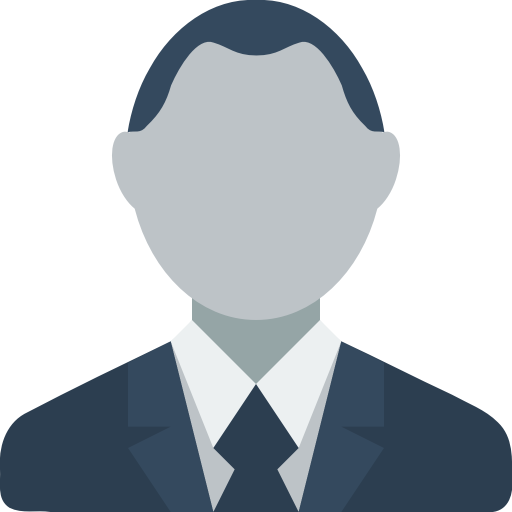
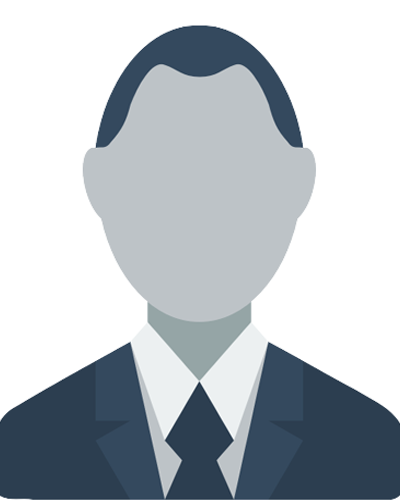
changed some pictures in the Images folder

diff --git a/9346B-G2/9346B-G2-3/Web_Pages/ourteam.html b/9346B-G2/9346B-G2-3/Web_Pages/ourteam.html
@@ -8,28 +8,28 @@
 </head>
 <meta name="viewport" content="width=device-width, initial-scale=1">
 <body>
-<img src="../Images/logo2.png" id="pic">
+<img src="../Images/logo2.png" id="pic" width="100%">
 <div class="header" >		
 	<nav id="navigate">
 		<ul>
 			<li><a href="../index.html">Our Advocacy</a></li>
 			<li><a href="#">About Us</a></li>
 				<ul>
-					<li><a href="mission.html" >Mission</li>
-					<li><a href="ourteam.html" target="_self">Our Team</li>
+					<li><a href="mission.html" >Mission</a></li>
+					<li><a href="ourteam.html" target="_self">Our Team</a></li>
 				</ul>
 			<li><a href="contactus.html">Contact Us</a></li>
 		</ul>
 	</nav>
 </div>
-
+<center>
 <div class="row">
   <div class="column">
     <div class="card">
-      <img src="../Images/joshua.jpg" alt="Joshua">
+      <img src="../Images/joshua.png" alt="Joshua" >
       <div class="container">
         <h2>Joshua Abubo</h2>
-        <p>Some text that describes me lorem ipsum ipsum lorem.</p>
+        <p>"Hurting an animal, makes you a criminal."</p>
         <p>2140748@slu.edu.ph</p>
         <p><button class="button">Contact</button></p>
       </div>
@@ -39,10 +39,11 @@
 <div class="row">
   <div class="column">
     <div class="card">
-      <img src="../Images/geo.jpg" alt="Geo">
+      <img src="../Images/geo.png" alt="Geo">
       <div class="container">
         <h2>Geovelle Andres</h2>
-        <p>Some text that describes me lorem ipsum ipsum lorem.</p>
+        <p>"Animals bark, growl & roar and they do not talk at all but seeing
+		through their eyes means something, a power to speak great language."</p>
         <p>2160890@slu.edu.ph</p>
         <p><button class="button">Contact</button></p>
       </div>
@@ -55,7 +56,7 @@
       <img src="../Images/francisco.png" alt="Francisco">
       <div class="container">
         <h2>Francisco III Cacas</h2>
-        <p>Some text that describes me lorem ipsum ipsum lorem.</p>
+        <p>"Pets are the best companion in life. They are always right by your side."</p>
         <p>thirdycas@gmail.com</p>
         <p><button class="button">Contact</button></p>
       </div>
@@ -65,11 +66,12 @@
 <div class="row">
   <div class="column">
     <div class="card">
-      <img src="../Images/mehanie.jpg" alt="Mehanie">
+      <img src="../Images/mehanie.png" alt="Mehanie">
       <div class="container">
         <h2>Mehanie Lonogan</h2>
-        <p>Some text that describes me lorem ipsum ipsum lorem.</p>
-        <p>@slu.edu.ph</p>
+        <p>"Animals should always be protected because they may be not intelligent as the human beings,
+		but they are much more compassionate, kind and lovable than we are.</p>
+        <p>2166004@slu.edu.ph</p>
         <p><button class="button">Contact</button></p>
       </div>
     </div>
@@ -78,11 +80,11 @@
 <div class="row">
   <div class="column">
     <div class="card">
-      <img src="../Images/noelle.jpg" alt="Noelle">
+      <img src="../Images/noelle.png" alt="Noelle">
       <div class="container">
         <h2>Noelle Mendoza</h2>
-        <p>Some text that describes me lorem ipsum ipsum lorem.</p>
-        <p>8@slu.edu.ph</p>
+        <p>"Dog Meat... You shouldn't eat."</p>
+        <p>2159317@slu.edu.ph</p>
         <p><button class="button">Contact</button></p>
       </div>
     </div>
@@ -91,15 +93,24 @@
 <div class="row">
   <div class="column">
     <div class="card">
-      <img src="../Images/caryl.jpg" alt="Caryl">
+      <img src="../Images/caryl.png" alt="Caryl">
       <div class="container">
         <h2>Caryl Oficiar</h2>
         <p>Some text that describes me lorem ipsum ipsum lorem.</p>
-        <p>2140748@slu.edu.ph</p>
+        <p>2161397@slu.edu.ph</p>
         <p><button class="button">Contact</button></p>
       </div>
     </div>
 </div>
+
+<div class="hero-image">
+  <div class="hero-text">
+    <h1>We are the BestBud Team</h1>
+    <p>And we are saving them</p>
+    <button>Join Us</button>
+  </div>
+</div> 
+</center>
 <div>
 	<h4 id="fq" align="center">"Saving one animal won't change the world, but it will change the world for taht one animal."</h4>
 	<h5 id="foot" align="center">All Rights Reserved</h5>

diff --git a/9346B-G2/9346B-G2-3/Web_Pages/contactus.html b/9346B-G2/9346B-G2-3/Web_Pages/contactus.html
@@ -8,21 +8,41 @@
 </head>
 <meta name="viewport" content="width=device-width, initial-scale=1">
 <body>
-<img src="../Images/logo2.png" id="pic">
+<img src="../Images/logo2.png" id="pic" width="100%">
 <div class="header" >		
 	<nav id="navigate">
 		<ul>
 			<li><a href="../index.html">Our Advocacy</a></li>
 			<li><a href="#">About Us</a></li>
 				<ul>
-					<li><a href="mission.html" >Mission</li>
-					<li><a href="ourteam.html" >Our Team</li>
+					<li><a href="mission.html" >Mission</a></li>
+					<li><a href="ourteam.html" >Our Team</a></li>
 				</ul>
 			<li><a href="contactus.html" target="_self">Contact Us</a></li>
 		</ul>
 	</nav>
 </div>
-
+<center>
+<div class="col-md-4 col-sm-12">
+        <h3 class="h5">Contact us</h3>
+        <form action="" method="POST">
+          <div class="row no-gutters">
+            <div class="col-lg-6 col-md-12 col-sm-12 tf-contact-col">
+              <input class="bg-light form-control" type="text" name="name" placeholder="*Name" required="required"/>
+            </div>
+            <div class="col-lg-6 col-md-12 col-sm-12 pb-2">
+              <input class="bg-light form-control" type="email" name="_replyto" placeholder="*Your Email Address" required="required"/>
+            </div>
+          </div>
+          <div class="row pb-2 no-gutters">
+            <div class="col-md-12 col-sm-12">
+              <textarea class="bg-light mb-2 form-control" name="message" type="text" placeholder="*Your Message" rows="5" required="required"></textarea>
+            </div>
+          </div>
+          <button class="btn btn-primary" type="submit">Submit</button>
+        </form>
+      </div>
+</center>
 <div>
 	<h4 id="fq" align="center">"Animals should not require our permission to live on Earth. Animals were given the right to be here long before we arrived."</h4>
 	<h5 id="foot" align="center">All Rights Reserved</h5>

diff --git a/9346B-G2/9346B-G2-3/index.html b/9346B-G2/9346B-G2-3/index.html
@@ -8,15 +8,15 @@
 </head>
 <meta name="viewport" content="width=device-width, initial-scale=1">
 <body>
-<img src="Images/logo2.png" id="pic"  >
+<img src="Images/logo2.png" id="pic" width="100%" >
 <div class="header" >	
 	<nav id="navigate">
 		<ul>
 			<li><a href="index.html" target="_self">Our Advocacy</a></li>
 			<li><a href="#">About Us</a></li>
 				<ul>
-					<li><a href="Web_Pages/mission.html">Mission</li>
-					<li><a href="Web_Pages/ourteam.html">Our Team</li>
+					<li><a href="Web_Pages/mission.html">Mission</a></li>
+					<li><a href="Web_Pages/ourteam.html">Our Team</a></li>
 				</ul>
 			<li><a href="Web_Pages/contactus.html">Contact Us</a></li>
 		</ul>
@@ -29,9 +29,9 @@
     <span id="slide-img-3"></span>
  
 	<div class="image-holder">
-		<img src="Images/ad1.png" class="slide-img">
-		<img src="Images/ad2.png" class="slide-img">
-		<img src="Images/ad3.png" class="slide-img">
+		<img src="Images/ad1.png" class="slide-img" width="100%">
+		<img src="Images/ad2.png" class="slide-img" width="100%">
+		<img src="Images/ad3.png" class="slide-img" width="100%">
 	</div>
 	
 	<div class="button-holder">

diff --git a/9346B-G2/9346B-G2-3/Web_Pages/mission.html b/9346B-G2/9346B-G2-3/Web_Pages/mission.html
@@ -8,15 +8,15 @@
 </head>
 <meta name="viewport" content="width=device-width, initial-scale=1">
 <body>
-<img src="../Images/logo2.png" id="pic">
+<img src="../Images/logo2.png" id="pic" width="100%">
 <div class="header" >		
 	<nav id="navigate">
 		<ul>
 			<li><a href="../index.html">Our Advocacy</a></li>
 			<li><a href="#">About Us</a></li>
 				<ul>
-					<li><a href="mission.html" target="_self">Mission</li>
-					<li><a href="ourteam.html">Our Team</li>
+					<li><a href="mission.html" target="_self">Mission</a></li>
+					<li><a href="ourteam.html">Our Team</a></li>
 				</ul>
 			<li><a href="contactus.html">Contact Us</a></li>
 		</ul>
